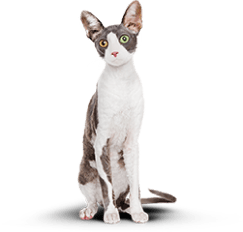
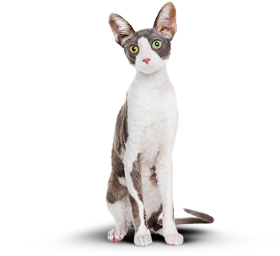
переработка разметки и стилей для слайдера

Changed region(s): [[0.2016, 0.0, 0.7778, 0.9655]]

diff --git a/source/index.html b/source/index.html
@@ -118,6 +118,12 @@
           </div>
           <div class="results__slider slider">
             <div class="slider__wrapper">
+              <div class="slider__gallery slider__gallery--before">
+                <picture>
+                  <source media="(min-width: 768px)" srcset="img/cat-before-tablet.png">
+                  <img class="slider__image slider__image--before" src="img/cat-before.png" width="280" height="256" alt="Кот с избыточным весом">
+                </picture>
+              </div>
               <button class="slider__control">
                 <svg class="slider__control-icon" width="40" height="40" viewBox="0 0 40 40" fill="none" xmlns="http://www.w3.org/2000/svg">
                   <rect x="1" y="1" width="38" height="38" rx="19" fill="#fff"/>
@@ -125,10 +131,10 @@
                   <rect x="1" y="1" width="38" height="38" rx="19" stroke="#666" stroke-width="2"/>
                 </svg>
               </button>
-              <div class="slider__gallery">
+              <div class="slider__gallery slider__gallery--after">
                 <picture>
-                  <source media="(min-width: 768px)" srcset="img/cat-slider-tablet.png">
-                  <img class="slider__image" src="img/cat-slider-mobile.png" width="280" height="256" alt="Кот с избыточным весом">
+                  <source media="(min-width: 768px)" srcset="img/cat-after-tablet.png">
+                  <img class="slider__image slider__image--after" src="img/cat-after.png" width="280" height="256" alt="Стройный кот">
                 </picture>
               </div>
             </div>

diff --git a/source/sass/blocks/slider.scss b/source/sass/blocks/slider.scss
@@ -1,5 +1,7 @@
 .slider__wrapper {
   position: relative;
+  width: 280px;
+  height: 256px;
 }
 
 .slider__control {
@@ -13,6 +15,7 @@
   background-color: $doveGrey;
   border: none;
   border-radius: 2px;
+  z-index: 10;
 }
 
 .slider__control:hover {
@@ -53,12 +56,46 @@
 
 .slider__image {
   display: block;
-  margin: 0 auto;
+  width: 100%;
+  height: 100%;
+  object-fit: cover;
+}
+
+.slider__gallery {
+  position: absolute;
+  top: 0;
+  background-color: $baseGalleryGrey;
+}
+
+.slider__gallery--before {
+  left: 0;
+  z-index: 1;
+}
+
+.slider__gallery--after {
+  right: 0;
+  z-index: 2;
+  clip-path: polygon(50% 0%, 100% 0%, 100% 100%, 50% 100%);
 }
 
 @media (min-width: $tablet-width) {
-  .slider__image {
+  .slider__wrapper {
     width: 560px;
-    height: auto;
+    height: 512px;
+    margin: 0 auto;
+  }
+
+  .slider__gallery {
+    background-color: transparent;
+  }
+
+  .slider__gallery--after {
+    background-image: linear-gradient(to top, $baseGalleryGrey 362px, $white 362px, $white 100%);
+  }
+}
+
+@media (min-width: $desktop-width) {
+  .slider__gallery--after {
+    background-image: linear-gradient(to top, $basicGrey 376px, $white 376px, $white 100%);
   }
 }
